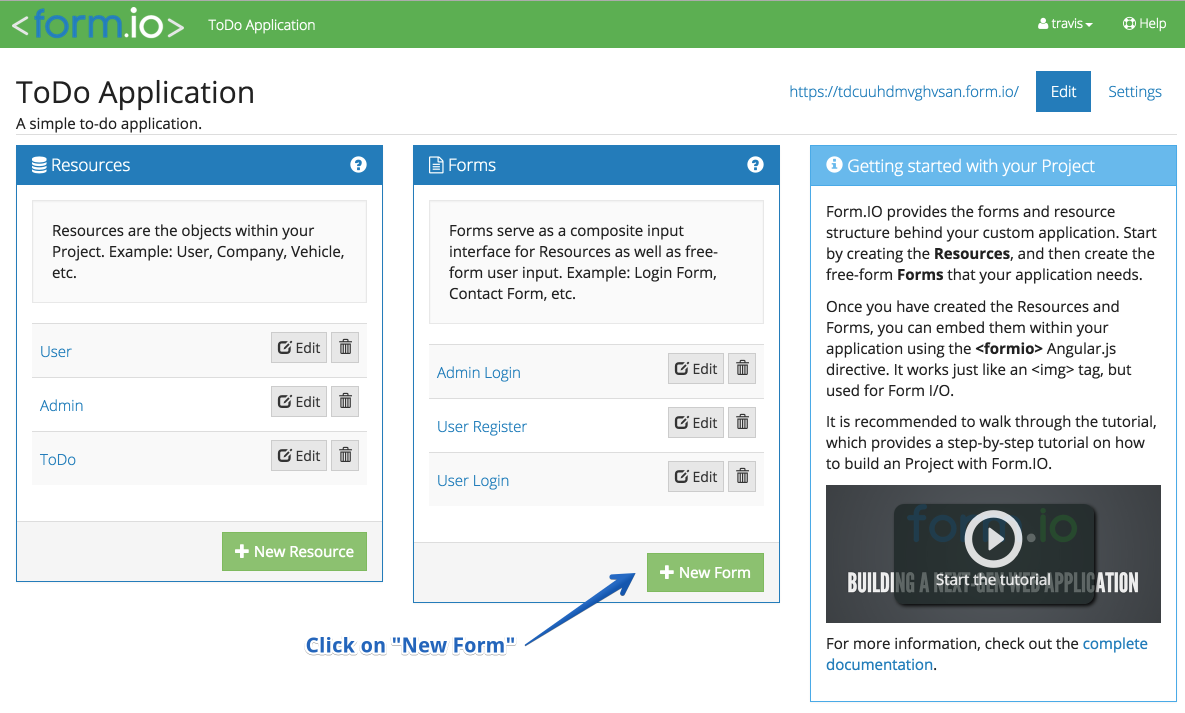
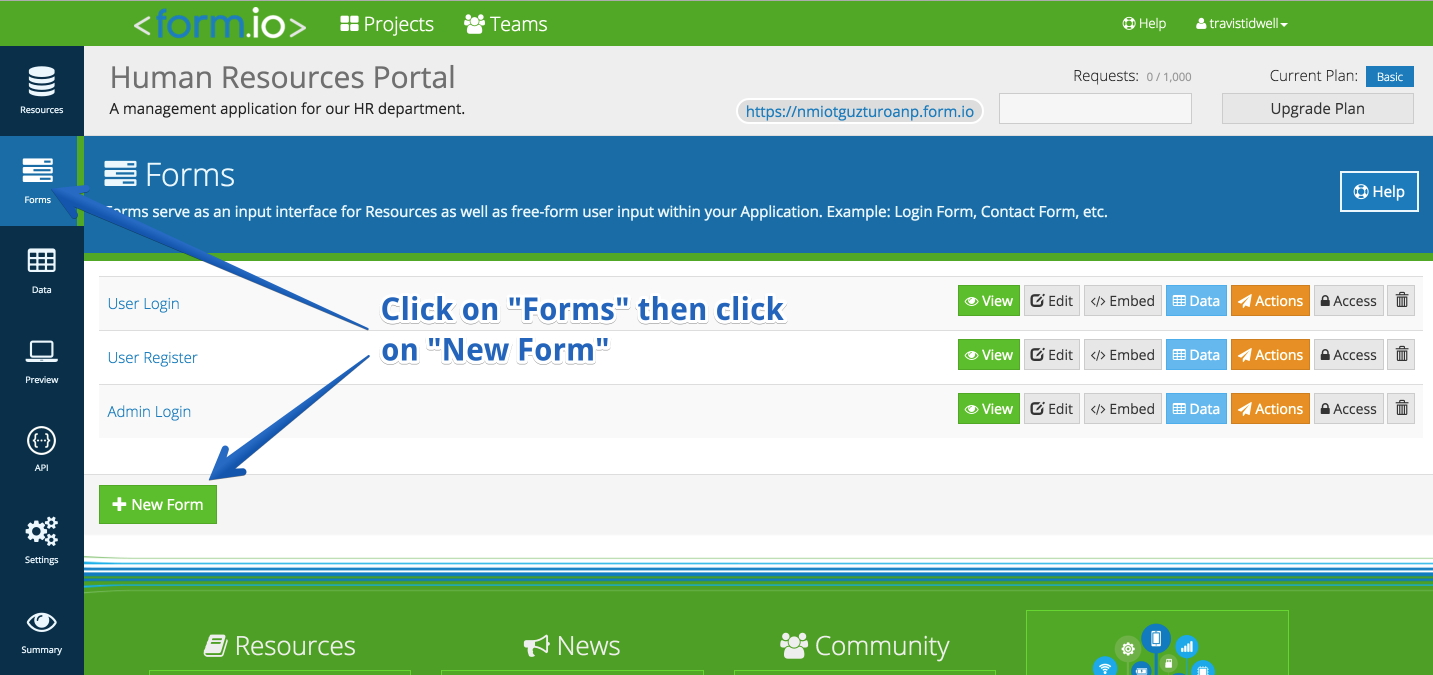
Adding welcome intro.

diff --git a/_paragraphs/intro/start.md b/_paragraphs/intro/start.md
@@ -1,48 +1,39 @@
 ---
-title: Let's get started!
+title: Getting Started
 book: intro
 weight: 10
 chapter: welcome
 slug: formio-welcome
 ---
-**&lt;<span class="text-primary">form</span>.<span class="text-secondary">io</span>&gt;** offers the first development platform that builds Forms & APIs in one simple step.
+Follow these steps to create our first Human Resources Portal application.
 
-The easiest way to get started is to **bootstrap** an existing application which will automatically connect with Form.io, which we will then disect later in this guide.
-
-Follow these steps to bootstrap your first application.
-
-  - ### Step 1: Create an account at [https://form.io](https://portal.form.io){:target="_blank"}.
-  - ### Step 2: [Download Node.js](https://nodejs.org){:target="_blank"}
-  - ### Step 3: Install the Form.io Command Line Interface.
-    - Open up your terminal and type the following.
-
-      ```
-      npm install -g formio-cli
-      ```
-  - ### Step 4: Bootstrap an application.
-    - Now we can easily bootstrap the [ToDo Application](https://github.com/formio/formio-app-todo){:target="_blank"} by typing the following.
-
-      ```
-      formio bootstrap formio/formio-app-todo
-      ```
-
-    - You should see the following...
-
-      ![](/assets/img/intro/formio-bootstrap.png)
-
-
-    - This process creates the Form.io project for you, as well as configures the application to utilize the bootstrapped project. Go to your Form.io account and you should now see the following.
-
-      ![](/assets/img/intro/formio-projects.png)
-
-
-    - This project is a complete sandboxed database where you have access to both Resources and Forms within your application.
-
-      ![](/assets/img/intro/formio-structure.png)
-
-
-    - This serves as the platform for the running application @ http://localhost:8081.
-
-      ![](/assets/img/intro/formio-embed.png)
-
-    This means that you can change any of the forms within your Form.io project and those forms will automatically update the application ***without needing to redeploy the software!***
+  - ### Create an account at [https://form.io](https://portal.form.io){:target="_blank"}.
+  - ### Create a new Project.
+    Projects serve as a container for the Resources, Forms, Data, and Settings for a specific application you are building.
+    ![](/assets/img/intro/formio-new-project.png)
+  - ### Provide project information
+    Pick a name that is relevant to the project you are building, give it a description, select a template (in this example we
+    will start with Default) and then press ***Create Project***
+    ![](/assets/img/intro/formio-create-project.png)
+  - ### Modify the User Resource
+    The Default template provides a User and Admin resource along with User Login, User Register, and Admin Login forms. We can start to get an understanding of how Form.io works by modifying our User resource for our particular application. Let's modify our ***User Resource*** to add a Phone Number and Home Address field.
+    ![](/assets/img/intro/formio-edit-user.png)
+  - ### Add Phone Number field.
+    Using the Drag and Drop form builder interface, drag a ***Phone Number*** component onto the form.
+    ![](/assets/img/intro/formio-add-phone.png)
+  - ### Provide phone number field information.
+    We need to create a Label and Placeholder for the phone number field.
+    ![](/assets/img/intro/formio-edit-phone-number.png)
+  - ### Add home address field
+    Next we will drag-and-drop the ***Address*** field onto the form and then provide the following information.
+    ![](/assets/img/intro/formio-edit-home-address.png)
+  - ### Press Save to update your User Resource
+    Pressing Save on this Resource form will now add those fields to the User resource.
+    ![](/assets/img/intro/formio-user-resource.png)
+  - ### Create a "Request Time Off" form
+    Click on the Forms section, and then click on ***New Form***
+    ![](/assets/img/intro/formio-new-form.png)
+  - ### Use form builder to create form
+    Using the form builder, drag and drop two **Date/Time** fields to create the **Start** and **End** times. You can also
+    drag and drop a **Text Area** field to create reason for time off.
+    ![](/assets/img/intro/formio-time-off-create.png)

diff --git a/_chapters/intro/welcome.md b/_chapters/intro/welcome.md
@@ -1,6 +1,8 @@
 ---
-title: Welcome to &lt;<span class="text-primary">form</span>.<span class="text-secondary">io</span>&gt;!
+title: Building a Human Resources Portal
 book: intro
 weight: 10
 chapter: welcome
 ---
+The easiest way to get started is to walk through a real world example of an application built on top of Form.io. For this introduction, we will be building a ***Human Resources Portal*** that allows someone from within the HR department to manage all employee requests within an organization. To keep things simple, we will just have a <em>Request Time Off</em> form that employees can fill out.
+

diff --git a/_books/intro.md b/_books/intro.md
@@ -2,7 +2,7 @@
 title: Getting Started
 layout: book
 book: intro
-summary: An overview of Form.io, how to use, basic templates and examples, and more. Learn basic concepts and how things work together.
+summary: Let's get started by building a real world application.
 image:
 weight: 1
 ---
